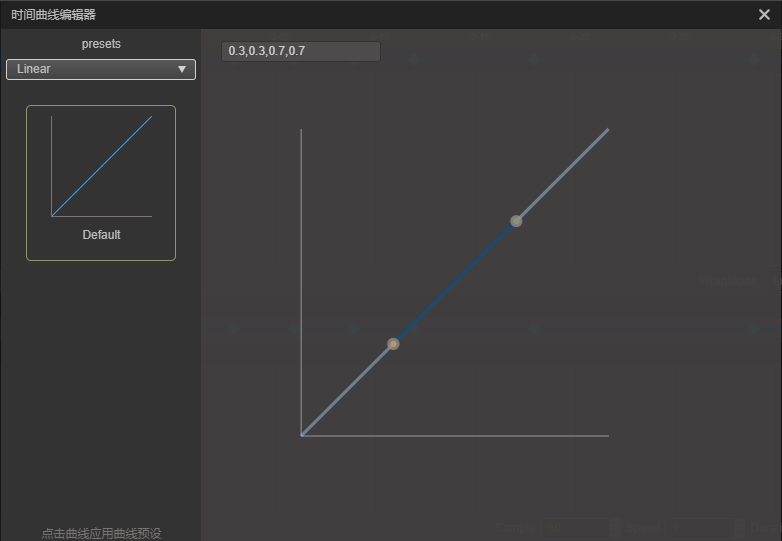
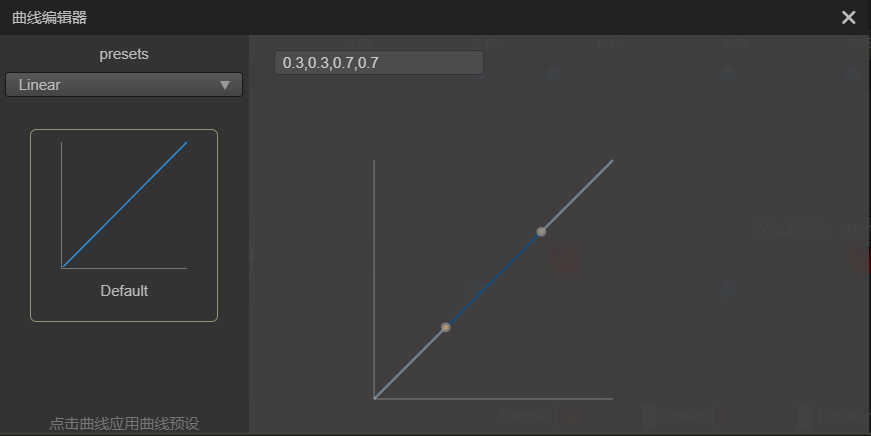
update

diff --git a/zh/SUMMARY.md b/zh/SUMMARY.md
@@ -89,7 +89,7 @@
   - [创建 Animation 组件和动画剪辑](editor/animation/animation-create.md)
   - [编辑动画序列](editor/animation/animation-clip.md)
   - [编辑帧动画](editor/animation/sprite-animation.md)
-  - [编辑时间曲线](editor/animation/animation-curve.md)
+  - [编辑动画曲线](editor/animation/animation-curve.md)
   - [添加动画事件](editor/animation/animation-event.md)
   - [使用脚本控制动画](editor/animation/scripting-animation.md)
 ## -------------------------------

diff --git a/zh/editor/animation/index.md b/zh/editor/animation/index.md
@@ -11,7 +11,7 @@
 - [创建 Animation 组件和动画剪辑](animation-create.md)
 - [编辑动画序列](animation-clip.md)
 - [编辑帧动画](sprite-animation.md)
-- [编辑时间曲线](animation-curve.md)
+- [编辑动画曲线](animation-curve.md)
 - [添加动画事件](animation-event.md)
 - [使用脚本控制动画](scripting-animation.md)
 
